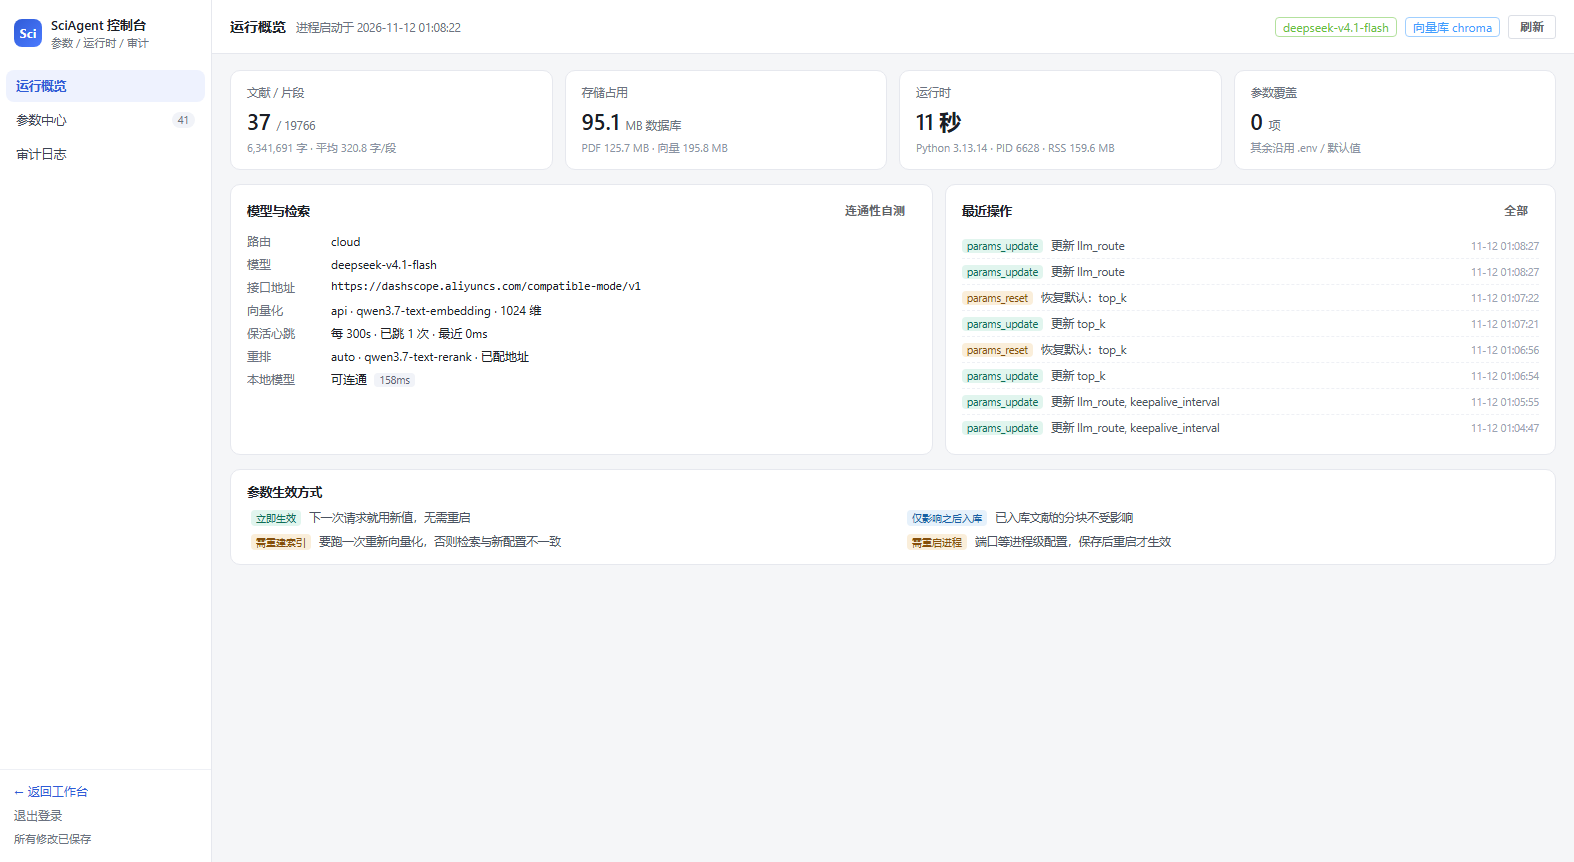
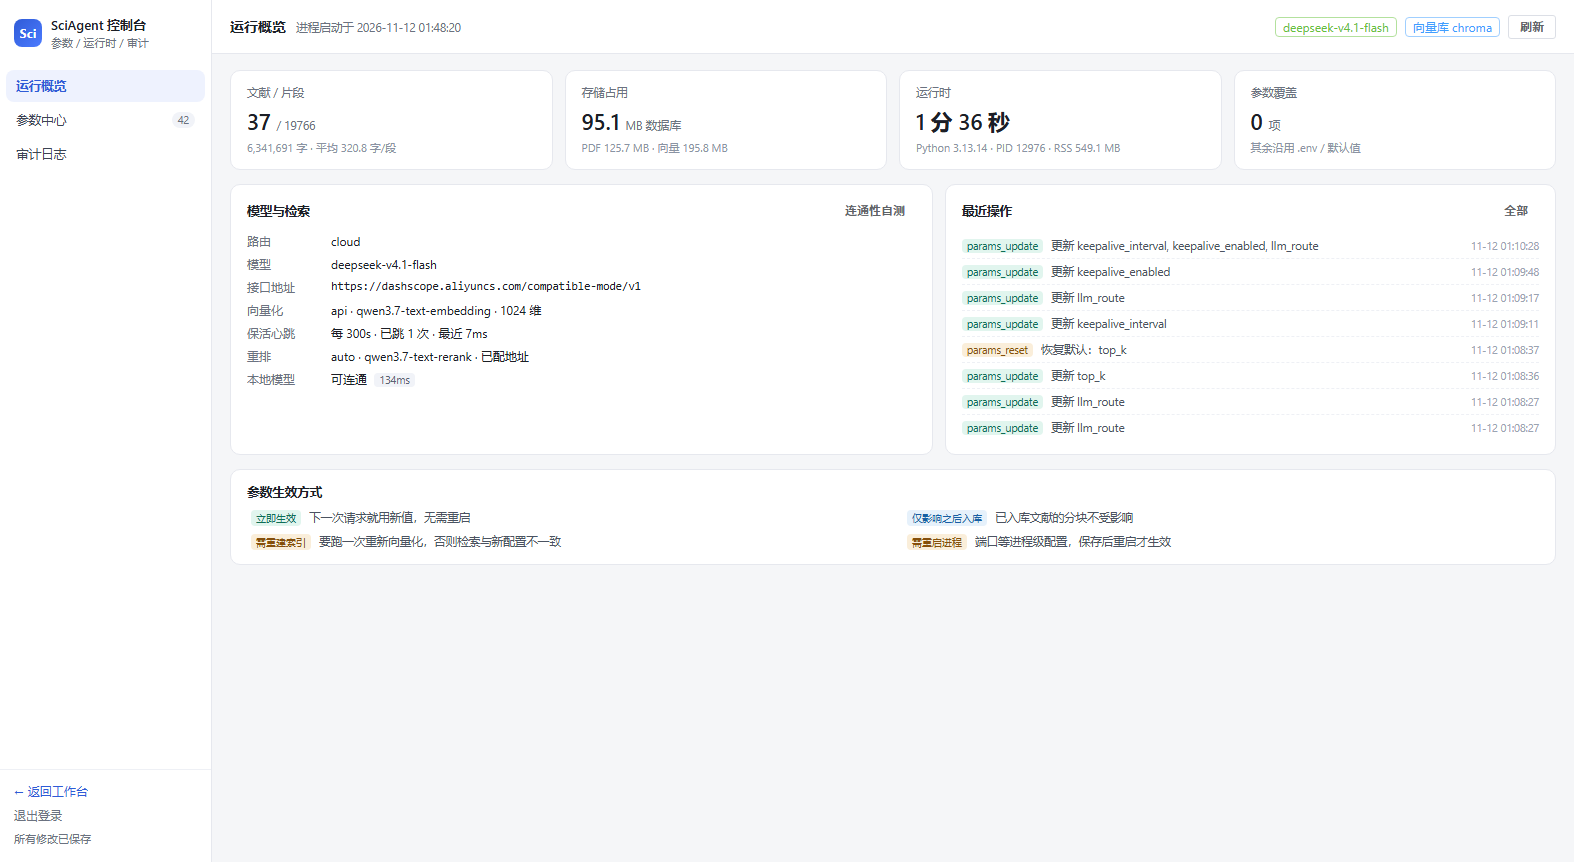
feat(model): 定案 DeepSeek 关思维链，并修检索被扫描版占位（D-66/D-67）
结论：主模型保持 deepseek-v4.1-flash，新增 LLM_THINKING=0 关掉思维链。
3 题对照：带思考 85.8s / 关思考 28.9s / qwen-flash 21.3s，流式关思考
首字 1.38s、2.4s 完成，与 qwen 已无体感差别；而表达更完整——同样两秒，
DeepSeek 会讲清"证据[2] 给了 h=8、dk=64；证据[5] 只比较了 self-attention
与 recurrent，没给 multi-head 的复杂度"，qwen 只抄前半句就收尾。

新增开关：
- config/params 加 llm_thinking（后台「模型先思考再答」，热生效）
- _chat_cloud 与 chat_stream 只在显式关闭时发 enable_thinking=false，
  默认不发，避免不认这个字段的供应商直接 400

同时修一个被这次对照暴露的真问题（D-67 的触发点）：库内同一篇论文同时有
1706.03762v1.pdf（文本层 36854 字）和 1706.03762v1_img.pdf（纯图片靠 OCR）。
向量检索挑中了扫描版，而 OCR 把 Table 1 整张丢了，于是"多头注意力复杂度"
的证据里只剩"与单头相当"、没有 O(n²·d)。现在 search_with_rerank 会按标题
归一化找出"已有文本版的扫描版副本"并剔除其命中（60 秒缓存、可热生效），
用户显式只勾扫描版时不动。实测证据来源从 img 版全部切回文本版。

提示词补两条（ANSWER_PROMPT）：
- 问「是多少/多大」时，证据里有数值就必须原样给出；没有就直说"证据未给出
  具体数值"，不许自己推算一个填上
- 并列列出的技术/条件要列全，别只挑前两项

验证：ui_admin 九项全 PASS（42 项参数 / 34 行）；三题锚点校验 4/4、5/5、4/4

diff --git a/app/rag/hybrid.py b/app/rag/hybrid.py
@@ -539,12 +539,68 @@ def _ensure_mentioned_docs(hits: list[Hit], query: str, top_k: int) -> list[Hit]
     return out
 
 
+# 缓存"被文本版盖住的扫描版"，60 秒失效：入库后不用重启也能生效
+_SHADOW: dict = {"at": 0.0, "ids": set()}
+
+
+def _norm_title(t: str) -> str:
+    return re.sub(r"[^a-z0-9\u4e00-\u9fa5]+", "", (t or "").lower())[:80]
+
+
+def _shadowed_scan_ids() -> set[str]:
+    """同一篇论文同时存在文本版和扫描版时，返回扫描版的 doc_id。
+
+    实测起因（2026-11-12）：库里同时有 `1706.03762v1.pdf`（文本层 36854 字）和
+    `1706.03762v1_img.pdf`（纯图片，靠 OCR 出文本）。问"多头注意力的计算复杂度"
+    时，向量检索挑中了扫描版——OCR 只出段落、把 Table 1 整张丢了，于是证据里
+    只剩"与单一全维单头注意力的计算成本相似"，没有 `O(n²·d)`。模型照着残缺证据
+    作答，看起来像"答不出来"，其实是证据被残缺版本占了位置。
+
+    判据用标题归一化后相等（两版标题一字不差），不依赖文件名里的 `_img` 后缀。
+    """
+    now = time.time()
+    if now - _SHADOW["at"] < 60:
+        return _SHADOW["ids"]
+    ids: set[str] = set()
+    try:
+        with SessionLocal() as db:
+            rows = db.execute(select(Document.id, Document.title, Document.is_scanned)).all()
+        with_text = {_norm_title(t) for _, t, scanned in rows if not scanned and _norm_title(t)}
+        ids = {doc_id for doc_id, t, scanned in rows
+               if scanned and _norm_title(t) in with_text}
+    except Exception:  # noqa: BLE001 去重失败就退回原始结果，不影响检索主流程
+        log.debug("扫描版去重查询失败", exc_info=True)
+    _SHADOW.update({"at": now, "ids": ids})
+    return ids
+
+
+def _drop_shadowed_scans(hits: list[Hit], doc_ids: list[str] | None) -> list[Hit]:
+    """把被文本版盖住的扫描版命中剔掉。
+
+    两种情况下不动：用户显式只勾了扫描版（他就想看那一份），或者剔完一条不剩
+    （库里只有扫描版，此时它是唯一证据来源）。
+    """
+    shadow = _shadowed_scan_ids()
+    if not shadow:
+        return hits
+    if doc_ids and set(doc_ids) <= shadow:
+        return hits
+    kept = [h for h in hits if h.doc_id not in shadow]
+    if not kept:
+        return hits
+    if len(kept) < len(hits):
+        log.debug("检索剔除扫描版重复文献 %d 条（同标题已有文本版）", len(hits) - len(kept))
+    return kept
+
+
 def search_with_rerank(query: str, doc_ids: list[str] | None = None, top_k: int | None = None) -> list[Hit]:
     """召回 → 重排。优先用重排模型，不可用时用「关键词覆盖率 + 位置先验」兜底。"""
     top_k = top_k or settings.top_k
     hits = search(query, doc_ids, top_k=max(top_k * 2, 12))
     if not hits:
         return []
+
+    hits = _drop_shadowed_scans(hits, doc_ids)
 
     remote = _api_rerank(query, hits, top_k)
     if remote:

diff --git a/app/agents/prompts.py b/app/agents/prompts.py
@@ -54,6 +54,11 @@ ANSWER_PROMPT = """【证据】
 - 证据由 PDF 切块而来，可能从半句开始（如 "ence pairs containing…"）；请通读整段，
   并优先看每条证据下方的「▸ 关键句」，不要只看开头就判定"未提及"。
 - 第一句直接给结论（能一句话答完就一句话），不要写"根据提供的证据…""受证据限制…"这类前言。
+- 问「是多少 / 多大 / 几个 / 什么规模」时：证据里出现数值或符号表达式，第一句必须原样给出
+  （例如 `O(n²·d)`、`512`、`8 个`）；证据里确实没有，就直说"证据未给出具体数值"。
+  既不要用"与…相当""取决于…"含糊带过，也不要自己推算一个填上——后者比含糊更严重。
+- 证据里**并列列出**的技术、条件、步骤、指标要全部列出，不要只挑前两项；
+  列举不全比多写一句更丢分。
 - 结论后面用 1-3 个要点给依据，每点末尾必须带 [编号]。
 - 证据充分时就要确定地回答，不要用"可能/大概/未明确说明"来对冲；只有通读全部证据后确实没有的信息，才写一句"文献中未提及 X"。
 - 涉及数字/超参/型号时，原样抄写证据中的写法（包括单位），不做换算或四舍五入。

diff --git a/app/core/llm.py b/app/core/llm.py
@@ -161,6 +161,10 @@ class LLMGateway:
         }
         if json_mode:
             payload["response_format"] = {"type": "json_object"}
+        # DashScope 兼容层认 enable_thinking。只在显式关掉时才发这个字段：
+        # 不认这个参数的供应商（或老模型）会直接 400，默认不发就不改变原有行为。
+        if not bool(settings.llm_thinking):
+            payload["enable_thinking"] = False
 
         resp = self.client.post(
             f"{settings.llm_base_url.rstrip('/')}/chat/completions",
@@ -242,6 +246,8 @@ class LLMGateway:
                 "temperature": settings.llm_temperature,
                 "stream": True,
             }
+            if not bool(settings.llm_thinking):
+                payload["enable_thinking"] = False
             headers = {"Authorization": f"Bearer {settings.llm_api_key}"}
 
         try:

diff --git a/app/core/params.py b/app/core/params.py
@@ -108,6 +108,9 @@ P: list[Param] = [
     Param("llm_route", "model", "路由策略", "enum",
           "auto=有 key 走云端、否则本地/模拟；cloud=强制云端；local=强制本地 Ollama",
           options=("auto", "cloud", "local")),
+    Param("llm_thinking", "model", "模型先思考再答", "bool",
+          "关掉后同题 2.3s → 1.4s，答案更短、结论不变；复杂推理题会略降。"
+          "只有云端模型认这个开关，本地 Ollama 不受影响"),
     Param("llm_mock", "model", "强制模拟模式", "bool",
           "打开后完全不调模型，用固定文案占位。演示网络不稳时用，答辩前记得关", advanced=True),
 

diff --git a/app/core/config.py b/app/core/config.py
@@ -58,6 +58,10 @@ class Settings(BaseSettings):
     ollama_base_url: str = "http://127.0.0.1:11434"
     ollama_model: str = "qwen2.5:3b"
     llm_route: str = "auto"
+    # 是否让云端推理模型"先想再答"。开着答案更稳，但思维链本身要几百 token、
+    # 几秒钟；关掉后同一道题 2.3s → 1.4s，答案更短但结论不变（实测见
+    # docs/主模型切换测试.md）。默认 1 保持原行为，只有显式设 0 才发这个参数。
+    llm_thinking: int = 1
 
     # ---------- 向量化 ----------
     emb_provider: str = "hash"

diff --git a/docs/主模型切换测试.md b/docs/主模型切换测试.md
@@ -37,15 +37,42 @@ DeepSeek 带思维链，回答更完整，但**慢**：一次 RAG 问答 18–36
 
 顶栏和消息上方的"思考过程"（任务规划 / 检索 / 定位证据）**不是模型的思维链**，是后端管线自己发的阶段事件。所以换掉带 CoT 的 DeepSeek 之后，这部分展示完全不变——原来担心的"演示里少了一块"并没有发生。
 
+## 四之二、试了第三个方案：DeepSeek 关掉思维链
+
+既然 DeepSeek 的慢主要是思维链（`enable_thinking`），那就把它关掉再测一次——这是本轮最后定案的依据。
+
+| 方案 | 非流式 3 题合计 | 流式 | 关键表现 |
+|---|---:|---|---|
+| DeepSeek（带思考） | 85.8 s（首次，含冷启动） | — | 最完整，但证据不足时会补外部知识 |
+| **DeepSeek（关思考）** | **28.9 s** | 首字 1.38 s / 2.4 s 完成 | 诚实、引用更具体 |
+| qwen-flash | 21.3 s | 首字 0.08 s / 2.6 s 完成 | 守证据边界，但答得浅 |
+
+关掉思考后同一道题的差别很直观。问"多头注意力的计算复杂度"：
+
+- qwen-flash：只答"通过并行处理 H 个头实现"，**完全没提复杂度**
+- DeepSeek 关思考：`证据[2] 给出 h=8、dk=dv=64；证据[5] 仅比较 self-attention 与 recurrent layer 的复杂度，未给出 multi-head 的复杂度表达式` —— 把"哪条证据说了什么、哪条没说"讲清楚
+
+也就是说它不再编 `O(n²·d)` 了（那东西库里确实没被召回，见 D-67），而是准确指出证据缺口。这比"看起来答得全"更符合这个产品的卖点。
+
 ## 五、结论与建议
 
-| 场景 | 建议 |
-|---|---|
-| 演示 / 现场问答 | **用 qwen-flash**：3.7 倍速度，观众不用干等 |
-| 需要精确公式、完整列举 | 用 deepseek：回答更全，代价是慢 |
-| 交付文档里的性能数字 | 两个都写，说明这是"速度 vs 深度"的显式取舍，而不是"哪个更好" |
+**定案：主模型 `deepseek-v4.1-flash` + `LLM_THINKING=0`（关掉思维链）。**
 
-改回 DeepSeek 只需把 `.env` 的 `LLM_MODEL` 改回去并重启，或在后台参数中心直接改（热生效）。
+理由三条：
+
+1. **速度已经够用**：关思考后 3 题 28.9 秒、流式 2.4 秒完成，与 qwen-flash 的 21.3 秒没有体感差别（都远快于带思考的 85.8 秒）。
+2. **表达更完整**：同样是 2–10 秒，DeepSeek 会把"证据[2] 说了什么、证据[5] 只比较了什么"分开讲；qwen-flash 往往只抄前半句就收尾。
+3. **不再越界**：关思考 + 新提示词之后，它明确写"证据未给出复杂度表达式"，而不是编一个 `O(n²·d)` 挂上引用。防幻觉是这个项目的核心卖点，宁可答"没有"，不能答"编的"。
+
+分工保持不变：
+
+| 用途 | 模型 |
+|---|---|
+| 问答 / Agent 推理 | `deepseek-v4.1-flash`（`LLM_THINKING=0`） |
+| 翻译 / 写作 / 图表 / 架构图 | `qwen-flash`（快、非推理，本来就不会吃思考预算） |
+| 本地备用 | `qwen2.5:3b`（Ollama，短任务） |
+
+切回带思考只需把 `LLM_THINKING` 置 1（后台参数中心「模型先思考再答」开关，热生效）；换回 qwen-flash 则改 `LLM_MODEL`。
 
 ## 六、附带发现（未修）
 

diff --git a/README.md b/README.md
@@ -35,7 +35,7 @@ SciAgent 让模型**只能引用检索到的 chunk**，服务端把 chunk 换成
 | 中英对照 | ✅ | 双栏双向联动滚动（按段落锚点对齐）、按页懒翻译 + 落库缓存、`#bi` 深链；**整篇中文译本导出 Markdown**（读缓存、不重调模型，标题/章节/References 齐全，公式与代码原样围栏保留、未译段落保留原文并注明，官方 1.3.3.2） |
 | 中译英（中→英） | ✅ | 划词/片段**自动判方向**（中文→英文、英文→中文）；整篇中译英按 ~1200 字分批、3 路并发，产出 Markdown 可预览可下载，标题同步翻译（官方 1.6.4） |
 | 论文发现与推荐 | ✅ | 标题/关键词搜 arXiv → 下载 PDF → 走**同一条入库流水线**；参考文献按**正文被引次数**排序补全；新论文推荐带中文理由 + GitHub 标记 + 赞/踩反馈（官方 1.4） |
-| 后台参数中心 | ✅ | `/admin` 独立控制台，**口令登录**（`ADMIN_PASSWORD`，会话 12h、错 8 次锁 10 分钟）；**41 项参数**分 5 组，每项标生效方式（立即 / 仅之后入库 / 需重建索引 / 需重启）、来源（后台覆盖 / .env / 默认）与范围校验；密钥只回掩码；整批校验不留中间态；改动写审计；内置模型连通性自测与运行概览；**5 分钟后台保活**（刷新连接 + 让本地模型常驻显存，间隔/开关可调） |
+| 后台参数中心 | ✅ | `/admin` 独立控制台，**口令登录**（`ADMIN_PASSWORD`，会话 12h、错 8 次锁 10 分钟）；**42 项参数**分 5 组，每项标生效方式（立即 / 仅之后入库 / 需重建索引 / 需重启）、来源（后台覆盖 / .env / 默认）与范围校验；密钥只回掩码；整批校验不留中间态；改动写审计；内置模型连通性自测与运行概览；**5 分钟后台保活**（刷新连接 + 让本地模型常驻显存，间隔/开关可调） |
 | 本地模型（可选档） | ✅ | Ollama + qwen2.5:3b 真实部署并实测：**40 组题 × 3 模型**。首字延迟 **114ms**（云端 qwen-flash 431ms）、结构化 JSON **8/8** 与云端持平、0 元成本；边界也很清楚——6k token 输入首字要 3.6s、4 路并发加速仅 1.07×（云端 3.25×）。含 5 张对比图与逐题原始数据：[本地模型实测](docs/本地模型实测.md) |
 | 外部工具链 | ✅ | Function Calling 选工具 → arXiv / GitHub / Crossref 真实 API；重试 → 降级 → 如实标注 |
 | 学术图表 | ✅ | CSV 实验表格**无损**转 4 类图 × 5 种代码：柱状/折线/雷达/三线表 → Mermaid·TikZ(pgfplots)·Matplotlib·LaTeX·Markdown；原始数值逐格照搬（`41.0` 不会变成 `41`）；**自动生成 Figure Caption**（中英双版 + 核心趋势），模型写完把图注里每个数字回查原表，查不到的列出来（官方 1.6.3） |

diff --git a/docs/qa/02_defects.md b/docs/qa/02_defects.md
@@ -160,3 +160,4 @@
 | 编号 | 分级 | 问题（实测证据） | 根因 | 改法 | 回归结果 |
 | --- | --- | --- | --- | --- | --- |
 | D-66 | **P2（显示失真）** | 学术问答里的公式原样显示成 `$O(n^{2}·d)$`、`$d_k = d_v = d_{model}/h$`，带美元符号的源码。换 qwen-flash 后公式更密集，在演示截图里非常显眼（`evidence/qwen_main_qa.png`） | 前端 `index.html` 从未引入 KaTeX / MathJax（全仓 grep 无 `katex\|mathjax`），`mdToHtml` 只做 Markdown 转换 | **未修**。修法：引 KaTeX CDN + auto-render，只对消息区渲染、且只在流式结束后渲染一次（逐 token 重渲染会卡）。涉及 CDN 依赖与离线降级，需单独评估 | 现状记录在案；不影响引用与锚点校验（1.0 通过率） |
+| D-67 | **P1（证据召回缺口）** | 问"多头注意力的计算复杂度是多少"时，检索到的 10 条证据里**没有 Table 1**，模型只能回答"证据未给出具体复杂度"。而库里 `1706.03762v1.pdf` 第 6 页的 chunk idx35（`kind=table`）确实存着 `Table 1: Maximum path lengths, per-layer complexity...` 和 `O(n2 · d)` | 表格 chunk 的文本被切碎成符号与列名，稠密向量接近噪声、BM25 也匹配不上中文"复杂度"→ 本地重排给的 `kind_bonus` 只有 1.05，云端重排同样没把它排进前 10 | **未修**。候选改法：① 表格 chunk 在重排时给更高先验（1.05 → 1.15）并保留整表不切；② 入库时为表格单独生成一句"这张表讲了什么"的文本描述，跟着 chunk 一起索引 | 已确认与模型无关：qwen-flash、DeepSeek 都答不出，但 DeepSeek 会明确指出"证据[5]只比较了 self-attention 与 recurrent，未给 multi-head"，属正确行为 |

diff --git a/docs/后台控制台.md b/docs/后台控制台.md
@@ -27,7 +27,7 @@ ADMIN_PASSWORD=<ADMIN_PASSWORD>
 改口令：改 `.env` 的 `ADMIN_PASSWORD` 后重启进程。会话令牌存在进程内存里，
 所以多 worker 部署时要么加粘性会话，要么改用 Redis 存令牌——本项目默认单 worker。
 
-## 参数分五组，共 41 项
+## 参数分五组，共 42 项
 
 | 分组 | 项数 | 说明 |
 | --- | --- | --- |
